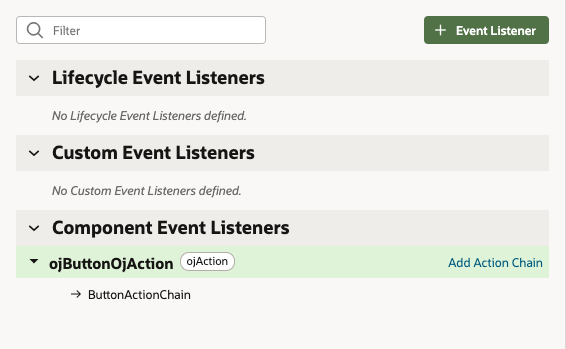
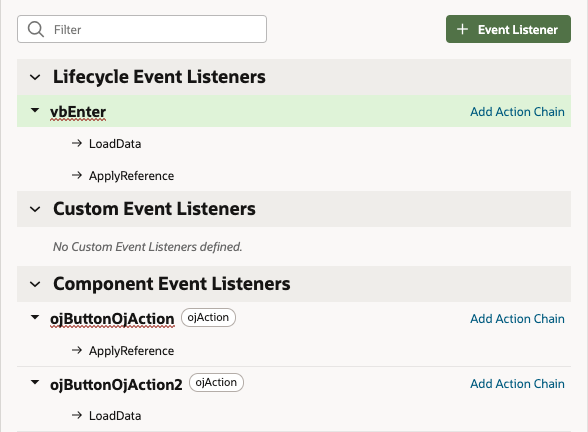
events update

diff --git a/workshops/visualbuilder/basic.md b/workshops/visualbuilder/basic.md
@@ -242,6 +242,23 @@ The Web/Mobile application, its flows and its pages, have all a set of artifacts
     ![](workshops/visualbuilder/media/49.png)
 
 -   `Events`: an Event is a sort-of message that is produced by an artifact and may have zero or many _event listeners_. An _event listener_ will execute some kind of action as the result of the arrival of the subscribed event. There are several types of events in the runtime: page events, flow events, system events, custom or developer-defined system events, component (DOM) events, and variable events
+
+    - You can specify multiple event listeners and link one or more _Action Chains_ to each event:
+
+    ![](workshops/visualbuilder/media/52.png)
+
+    - You can create your own _Custom Events_ and set input parameters if needed:
+
+    ![](workshops/visualbuilder/media/50.png)
+
+    ![](workshops/visualbuilder/media/51.png)
+
+    - _Custom Events_ can be triggered from within the _Action Chains_
+
+    - Lifecycle Events allow users to have the control of the lifecycle of the application, triggering _Action Chains_ when page gets loaded or exited, for example:
+
+    ![](workshops/visualbuilder/media/53.png)
+
 -   `Action Chains`: An action chain is a sequence of actions that you create to define the behavior of components. Action chains are triggered by events that you add to components and page events, etc
 
 #### Scope
